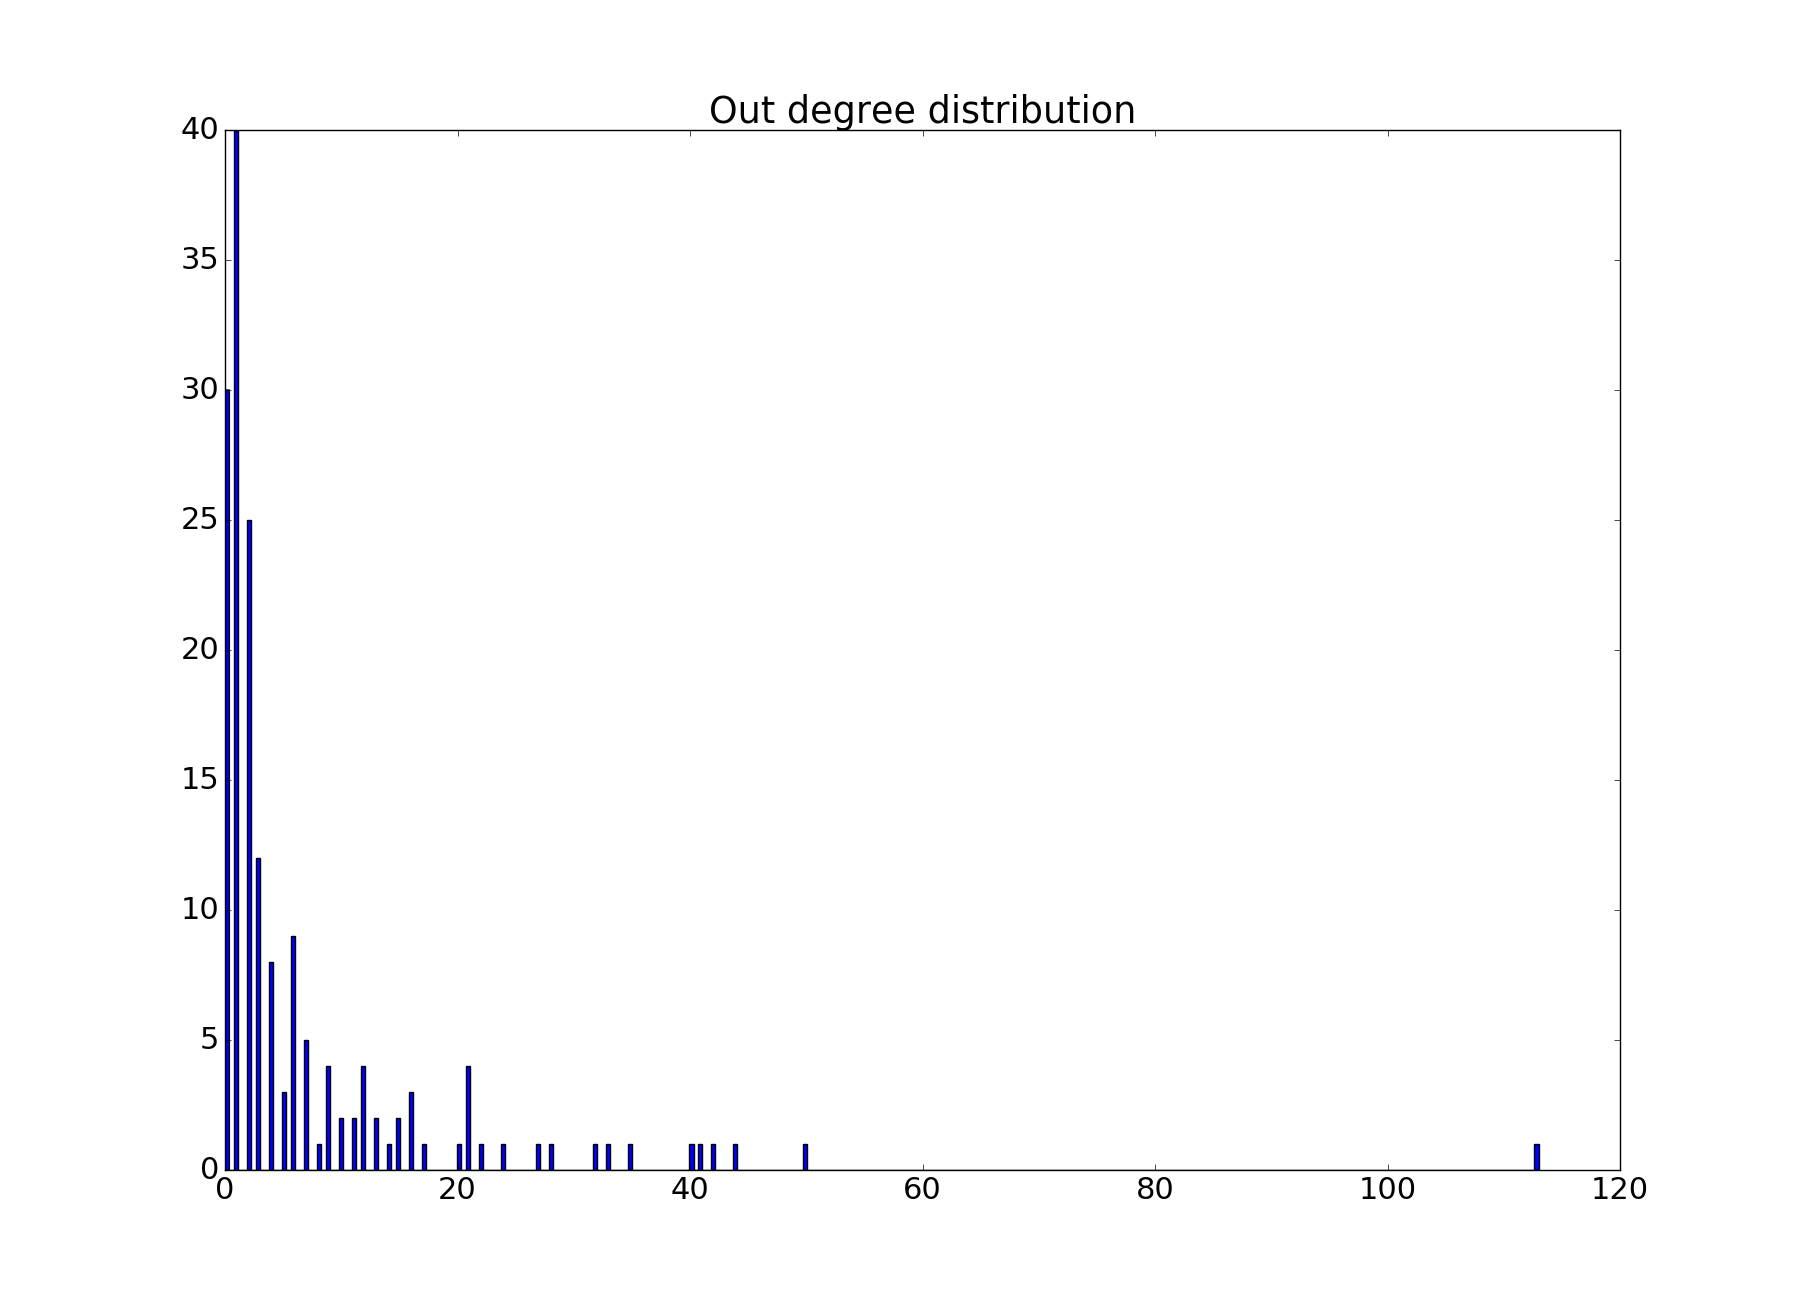
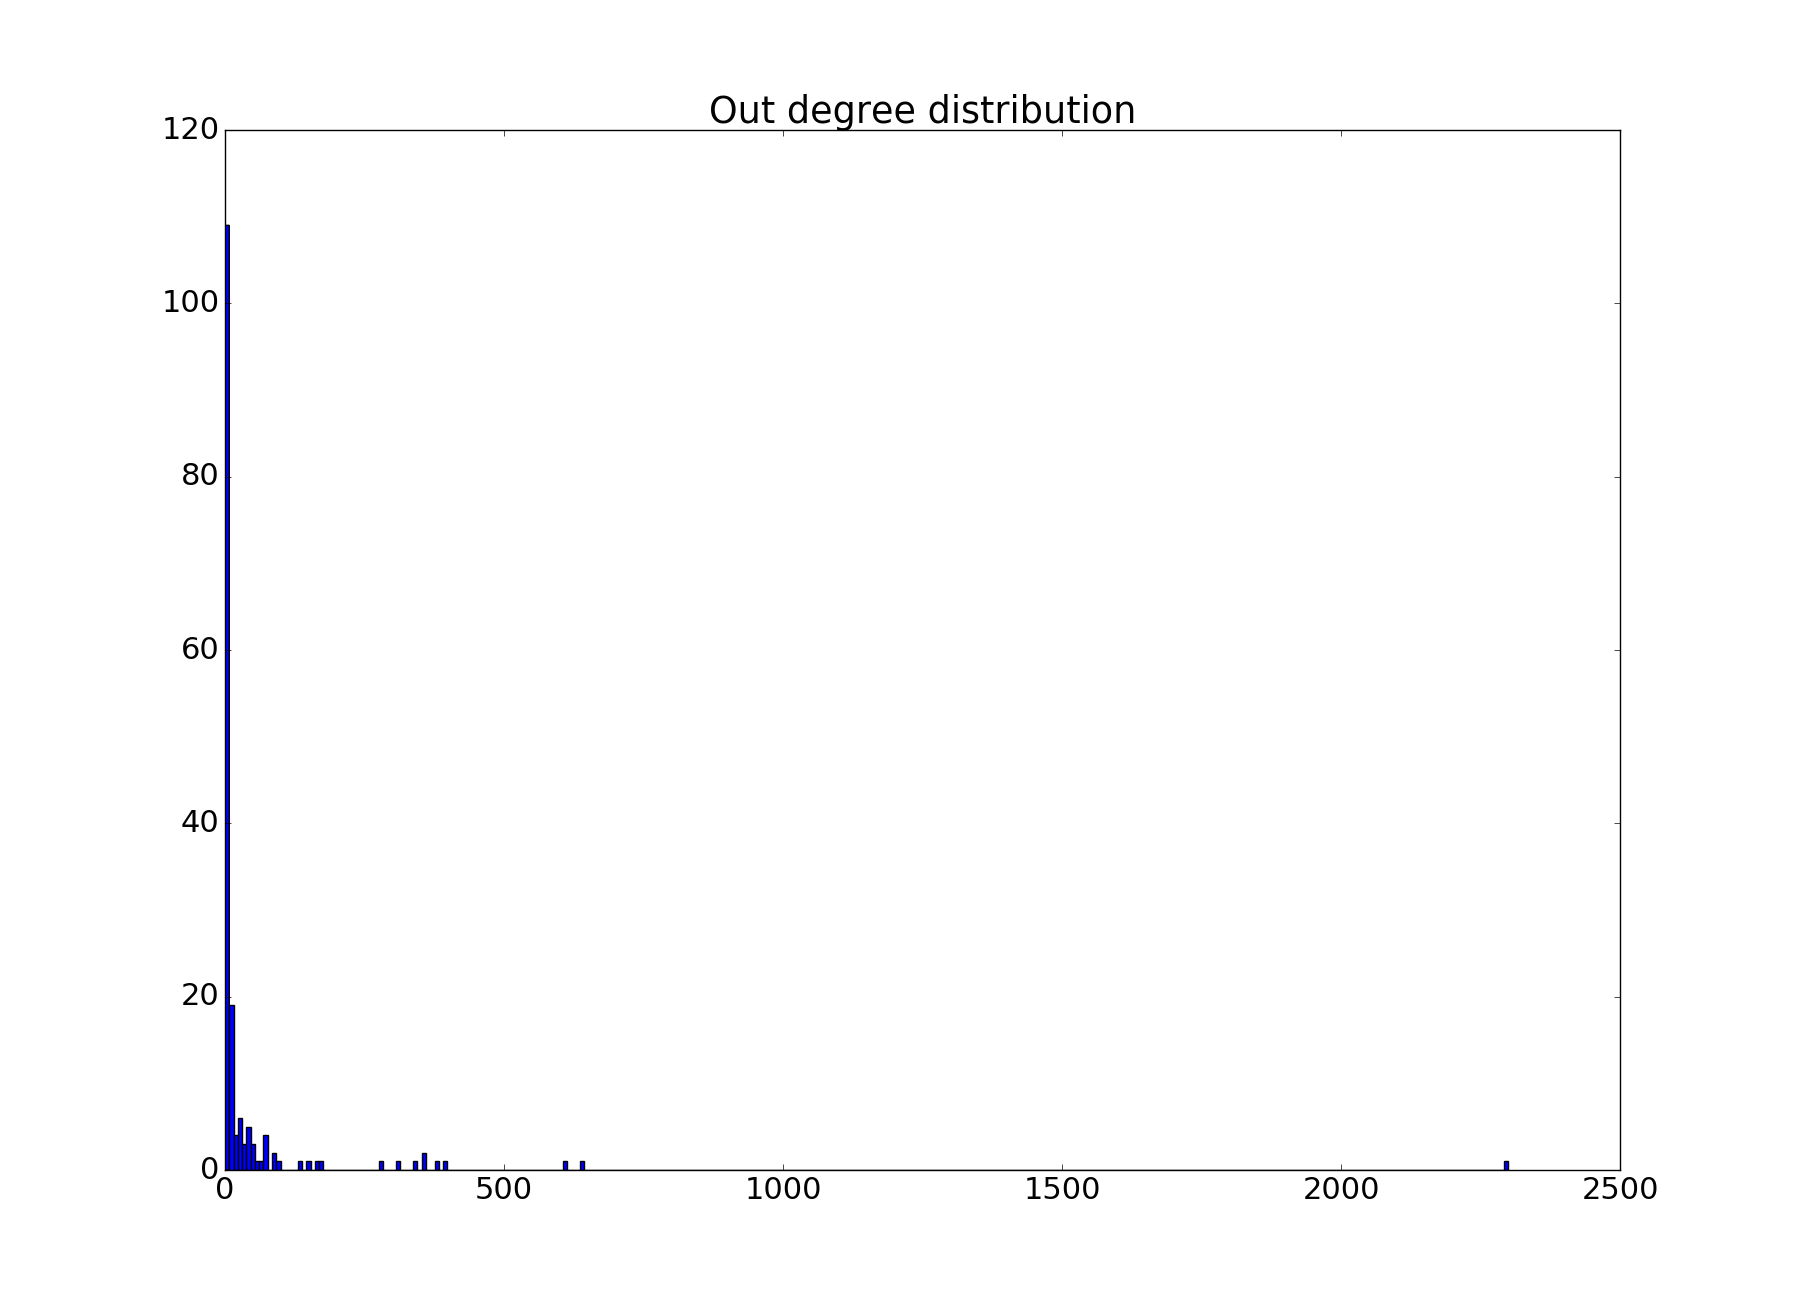
code refactored; now with frequency-dependent weights

diff --git a/wildlife_network.py b/wildlife_network.py
@@ -15,26 +15,26 @@ class CountryDataFrame(object):
 	def __init__(self, csv_name, csv_dir=os.getcwd()):
 		self.csv_name = csv_name
 		self.csv_dir = csv_dir
-		self.df = self.get_dataframe()
-		self.all_countries = self.get_country_list()
+		self.csv_name_root = os.path.splitext(self.csv_name)[0]
+		self.df = self.set_dataframe()
 
 	def get_dataframe(self):
+		"""Convert full csv file to pandas dataframe for easy referencing"""
 		csv_dir = self.csv_dir
-		csv_name = self.csv_name
-
-		"""Convert csv file to pandas dataframe for easy referencing"""
+		csv_name = self.csv_name		
 		datacsv = os.path.join(csv_dir, csv_name)
-		# Note that country 'NA' should not be read as NaN; add keep_default_na=False
-		# Only read empty cells as NaN
+		# Note that country 'NA' should not be read as NaN
+		# Add keep_default_na=False, and only read empty cells as NaN
 		df = pd.read_csv(datacsv, keep_default_na=False, na_values=[''])
 		
-		# Subset the columns for what we need
-		## selected_columns = ['Importer', 'Exporter', 'Importer reported quantity',
-		## 					'Exporter reported quantity', 'Term', 'Unit',
-		## 				]
-		## df = df[selected_columns]
+		return df
 
-		## df = df.head(20)
+	def set_dataframe(self, new_df=None):
+		"""Overwrites the variable df. Useful for filtering."""
+		if new_df is None:
+			df = self.get_dataframe()
+		else:
+			df = new_df
 		return df
 
 	def get_country_list(self, print_output=False):
@@ -57,26 +57,39 @@ class CountryDataFrame(object):
 
 		years = sorted(list(df['Year'].unique()))
 		new_df = pd.DataFrame()
-		new_df['Country'] = self.all_countries
-		for year in years:
-			new_df[str(year) + '_import_counts'] = None
-			new_df[str(year) + '_import_counts'] = None
+		new_df['Country'] = self.get_country_list()
 
-		for year in years:		
-			im_col_name = str(year) + '_import_counts'
-			ex_col_name = str(year) + '_export_counts'
-			for index, row in new_df.iterrows():
-				country = row['Country']
+		for index, row in new_df.iterrows():
+			country = row['Country']
+			# Get the total counts
+			total_imports = len(df[df['Importer'] == country])
+			total_exports = len(df[df['Exporter'] == country])
+			new_df.loc[index, 'Total imports'] = total_imports
+			new_df.loc[index, 'Total exports'] = total_exports
+			new_df.loc[index, 'Net imports'] = total_imports - total_exports
+
+			# Get the counts per year
+			for year in years:
+				col_name = {}
+				col_name['im'] = str(year) + '_import_counts'
+				col_name['ex'] = str(year) + '_export_counts'
+				col_name['net'] = str(year) + '_net_import_counts'
+
+				# Subset the data by year
 				df_sub = df[df['Year'] == year]
 
-				im_count = len(df_sub[df_sub['Importer'] == country])
-				ex_count = len(df_sub[df_sub['Exporter'] == country])
+				# Count import/export frequency
+				counts = {}
+				counts['im'] = len(df_sub[df_sub['Importer'] == country])
+				counts['ex'] = len(df_sub[df_sub['Exporter'] == country])
+				counts['net'] = counts['im'] - counts['ex']
 
-				new_df.loc[index, im_col_name] = im_count
-				new_df.loc[index, ex_col_name] = ex_count
+				# Create the import and export frequency columns
+				for label in col_name.iterkeys():
+					new_df.loc[index, col_name[label]] = counts[label] 
 
 		# Write to  CSV
-		filename = '{csvname}_imex.csv'.format(csvname=self.csv_name)
+		filename = '{csvname}_imex.csv'.format(csvname=self.csv_name_root)
 		new_df.to_csv(os.path.join(self.csv_dir, filename))
 
 class ImportExportPairs(object):
@@ -92,7 +105,8 @@ class ImportExportPairs(object):
 
 	def get_imex_freq_dict(self):
 		"""
-		Gets weighted list of edges as (importer_country, exporter_country, weight).
+		Gets frequencies of trade as a dictionary:
+		{(importer_country, exporter_country): freq}
 		"""
 		df = self.df
 
@@ -114,7 +128,12 @@ class ImportExportPairs(object):
 		return imex_freq_dict
 
 	def get_imex_weight_dict(self):
-		"""Gets weights."""
+		"""
+		Gets weights as a dictionary:
+		{(importer_country, exporter_country): weight}.
+		Relatively simple function, but allows us to decouple weights from
+		frequencies if necessary.
+		"""
 		imex_weight_dict = {}
 		for imex_tuple, freq in self.imex_freq_dict.iteritems():
 			importer, exporter = imex_tuple
@@ -223,15 +242,19 @@ class DegreeInfo(object):
 
 data = CountryDataFrame('ivory.csv')
 df = data.df
+## data.set_dataframe(df.head(10))
+
 data.create_df_by_imex()
 
-imex_pairs = ImportExportPairs(df, weight_scheme=None)
+# Create a weighted edge
+weight_scheme = 'freq'
+imex_pairs = ImportExportPairs(df, weight_scheme=weight_scheme)
 
 # Create the directed graph
 G = nx.DiGraph()
 
 # Add nodes and edges
-G.add_nodes_from(data.all_countries)
+G.add_nodes_from(data.get_country_list())
 G.add_weighted_edges_from(imex_pairs.edge_list)
 
 # Get degree distribution
@@ -243,3 +266,6 @@ plt.clf()
 nx.draw(G, with_labels=True)
 plt.savefig('ivory_network.png', dpi=400)
 plt.close()
+
+## add country list output
+## get G
